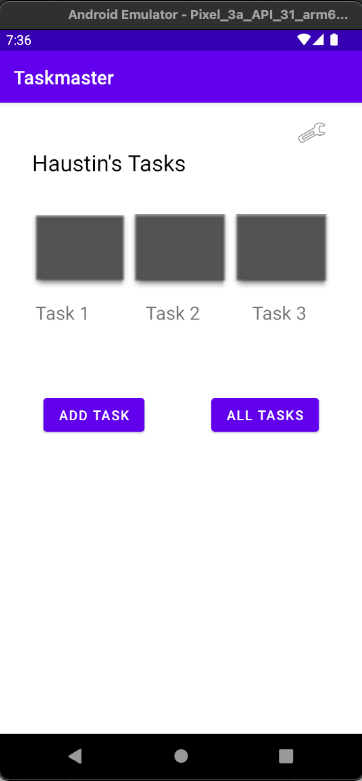
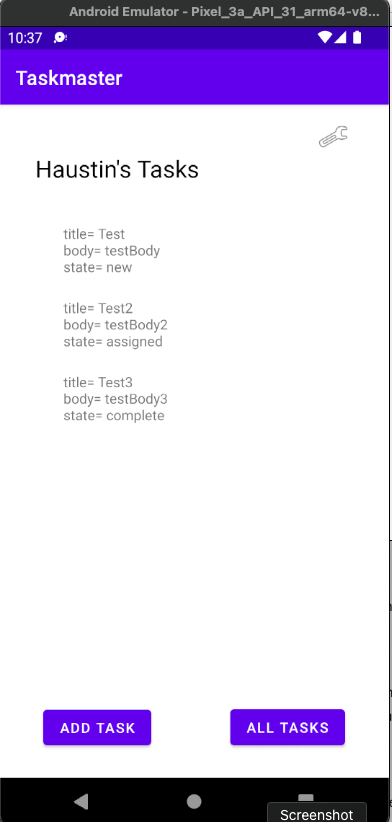
updates documentation

diff --git a/README.md b/README.md
@@ -1,6 +1,6 @@
 # Taskmaster
 **Author**: Haustin Kimbrough
-**Version**: 1.0.1
+**Version**: 1.0.2
 
 ## Overview
 <!-- Provide a high level overview of what this application is and why you are building it, beyond the fact that it's an assignment for this class. (i.e. What's your problem domain?) -->
@@ -13,33 +13,50 @@ An application to manage tasks.
 
 Application is an android application programmed using the Java language. 
 
-- The main page should have a heading at the top of the page and buttons at the bottom of the page to allow going to the “add tasks” and “all tasks” page.
-- Additionally, it contains three different buttons with hardcoded task titles. When a user taps one of the titles, it should go to the Task Detail page, and the title at the top of the page should match the task title that was tapped on the previous page.
-- Also, an wrench image allows users to visit the Settings page, and once the user has entered their username, it should display “{username}’s tasks” above the three task buttons.
+### Homepage
 
-
-### Homepage Screenshot
 ![homepage screenshot](./screenshots/myTasks.png)
 
 
-- On the “Add a Task” page, allow users to type in details about a new task, specifically a title and a body. When users click the “submit” button, show a “submitted!” label on the page.
-### Add Task Screenshots
+- The main page should have a heading at the top of the page and buttons at the bottom of the page to allow going to the “add tasks” and “all tasks” page.
+- Additionally, it contains a RecyclerView that displays a user's tasks (currently hard-coded).
+- When a user taps one of the tasks, it should go to the Task Detail page, and the task title, body, state, and addedOn should match the task that was tapped on the previous page.
+- Also, an wrench image allows users to visit the Settings page, and once the user has entered their username, it should display “{username}’s tasks” above the three task buttons.
+- The application has a Task class. A Task should have a title, a body, and a state. The state should be one of “new”, “assigned”, “in progress”, or “complete”.
+
+
+### Add Task
+
 ![add task screenshot](./screenshots/addTask.png)
 ![add task submitted screenshot](./screenshots/addTaskSubmitted.png)
 
 
-- The all tasks page should just be an image with a back button; it needs no functionality.
-### All Tasks Screenshot
+- On the “Add a Task” page, allow users to type in details about a new task, specifically a title and a body. When users click the “submit” button, show a “submitted!” label on the page.
+
+
+### All Tasks
+
 ![all tasks screenshot](./screenshots/allTasks.png)
+
+
+- The all tasks page should just be an image with a back button; it needs no functionality.
+
+
+### Settings Screenshot
+
+![Settings screenshot](./screenshots/userSettings.png)
 
 
 - Settings page. It should allow users to enter their username and hit save.
 
 
+### Task Detail Screenshot
+
+![task detail screenshot](screenshots/taskDetails.png)
+
+
 - Task Detail page should have a title at the top of the page, and a Lorem Ipsum description.
 
-### Task Detail Screenshot
-![task detail screenshot](./screenshots/taskDetails.png)
 
 ## Credit and Collaborations
 <!-- Give credit (and a link) to other people or resources that helped you build this application. -->
